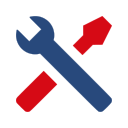
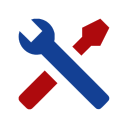
Version 1.0
Uploaded Version 1.0
- small tweaks

diff --git a/LUH-Tools/popup.css b/LUH-Tools/popup.css
@@ -1,8 +1,8 @@
 @import url('https://fonts.googleapis.com/css2?family=Montserrat:wght@300;400&display=swap');
 
 :root {
-  --primary: rgb(59, 110, 185);
-  --primary-60: rgb(59, 110, 185, 0.7);
+  --primary: rgb(19, 64, 148);
+  --primary-60: rgb(19, 64, 148, 0.6);
   --disabled: #cb0914;
   --green: rgb(43, 231, 43);
   --green-pulse-40: rgba(43, 231, 43, 0.4);
@@ -31,18 +31,29 @@ header {
   justify-items: center;
   align-items: center;
   font-weight: bold;
-  background-color: #28497c;
+  background-color: var(--primary);
   color: white;
   padding: 10px;
 }
 
 .fade {
-  animation: fade 3s ease infinite ;
+  animation: fade 3s linear infinite ;
+}
+
+@keyframes fade {
+  12.5% { background-color: #FF0000; }
+  25% { background-color: #FFA500; }
+  37.5% { background-color: #FFFF00; }
+  50% { background-color: #7FFF00; }
+  62.5% { background-color: #00FFFF; }
+  75% { background-color: #0000FF; }
+  87.5% { background-color: #9932CC; }
+  100% { background-color: #FF1493; }
 }
 
 .header {
   display: flex;
-  gap: 0.5rem;
+  gap: 1rem;
   width: 100%;
   flex-direction: row;
   align-items: center;
@@ -59,10 +70,10 @@ header {
   height: 20px;
   border-radius: 50%;
   background-color: #cb0914;
-  box-shadow: 0px 1px 8px rgba(255, 255, 255, 0.15);
 }
 
 .status-dot-active {
+  box-shadow: 0px 1px 8px rgba(255, 255, 255, 0.15);
   background-color: var(--green) !important;
   animation: pulse 2s infinite;
 }
@@ -84,12 +95,19 @@ header {
   max-height: 0;
   transition: max-height 0.4s ease-out;
   overflow: hidden;
-  background-color: var(--primary-60);
+  background-color: lightgray;
 }
 
 .popdown-body {
   color: black;
   padding: 10px;
+}
+
+.popdown-body .spacer {
+  margin-top: 5px;
+  margin-bottom: 5px;
+  margin-left: 0;
+  margin-right: 0;
 }
 
 .popdown-body a {
@@ -151,6 +169,10 @@ header {
   -webkit-user-drag: none;
 }
 
+.footer div {
+  opacity: 60%;
+}
+
 a:link, a:visited,  a:hover, a:active {
   color: black;
 }
@@ -196,17 +218,17 @@ a:link, a:visited,  a:hover, a:active {
   content: "";
   height: 20px;
   width: 20px;
-  left: -4px;
-  bottom: -3px;
+  left: -3px;
+  bottom: -3.5px;
   background-color: gray;
   transition: inherit;
 }
 
 input:checked + .slider {
-  background-color: var(--primary);
+  background-color: var(--primary-60);
 }
 input:focus + .slider {
-  box-shadow: 0 0 1px #2196F3;
+  box-shadow: 0 0 1px var(--primary-60);
 }
 
 
@@ -214,7 +236,7 @@ input:checked + .slider:before {
   -webkit-transform: translateX(20px);
   -ms-transform: translateX(20px);
   transform: translateX(20px);
-  background-color: #28497c;
+  background-color: var(--primary);
 }
 
 /* Rounded sliders */
@@ -250,16 +272,5 @@ input:checked + .slider:before {
       -moz-box-shadow: 0 0 0 0 var(--green-pulse-0);
       box-shadow: 0 0 0 0 var(--green-pulse-0);
   }
-}
-
-@keyframes fade {
-  12.5% { background-color: #FF0000; }
-  25% { background-color: #FFA500; }
-  37.5% { background-color: #FFFF00; }
-  50% { background-color: #7FFF00; }
-  62.5% { background-color: #00FFFF; }
-  75% { background-color: #0000FF; }
-  87.5% { background-color: #9932CC; }
-  100% { background-color: #FF1493; }
 }
 

diff --git a/LUH-Tools/popup.html b/LUH-Tools/popup.html
@@ -12,24 +12,26 @@
       <span class="material-symbols-outlined info-symbol" id="icon_info">
         info
       </span>
-      <img src="images/LUH_tools_icon_16.png" alt="">
+      <img src = "images/LUH_tools.svg" alt="LUH-Tools"/>
       <h1>LUH-Tools</h1>
       <div id="global-status-dot"></div>
     </div>
-    <div id="global-status-text">doesn't work on this site</div>
+    <div id="global-status-text">does not work on this site</div>
   </header>
+  
   <div class="popdown">
     <div class="popdown-body">
-      <strong>The QIS-Calculator switch</strong>  automatically calculates and displays your lp and grade on the <a class="text-white" href="https://qis.verwaltung.uni-hannover.de/" target="_blank">QIS-site</a>
-      <br><br>
-      <strong>The Stud.IP download switch</strong> switch automatically adds the download button to the right side of <a class="text-white" href="https://studip.uni-hannover.de/" target="_blank">LUH Stud.IP videos</a>
+      <strong>The QIS-Calculator switch</strong> automatically calculates and displays your cp and grade on the <a class="text-white" href="https://qis.verwaltung.uni-hannover.de/" target="_blank">QIS-site</a>
+      <br>
+      <div class="spacer"></div>
+      <strong>The Stud.IP download switch</strong> automatically adds the download button to the left side of <a class="text-white" href="https://studip.uni-hannover.de/" target="_blank">LUH Stud.IP videos</a>
     </div>
   </div>
   
   <main>
+
     <div class="action-wrapper">
       <span><strong>QIS Grade Calculator</strong></span>
-
       <div class="action-input">
         <label class="switch">
           <input type="checkbox" id="qis-auto">
@@ -54,7 +56,7 @@
     
     <div class="footer">
       <div>
-        <a href="https://bit.ly/3OKWrus" target="_blank">Claas</a> klar programmiert
+        Claas klar programmiert
       </div>
       <span>
         Version 10.10.2022

diff --git a/LUH-Tools/qis-script.js b/LUH-Tools/qis-script.js
@@ -6,38 +6,13 @@ window.onload = function() {
         }
     });
     chrome.runtime.onMessage.addListener(message_handler);
-    /* chrome.runtime.onMessage.addListener(
-        function (request, sender, sendResponse) {
-            if (request.function === "mainQISCalculator") {
-                mainQISCalculator();
-            }
-            else if (request.function === "script_already_executed") {
-                sendResponse({'return': script_already_executed()});
-            }  
-        }
-    ); */
 }
 
 function message_handler(request, sender, sendResponse){
-    switch(request.function) {
-        case "mainQISCalculator":
-            mainQISCalculator();
-            break;
-        case "script_already_executed":
-            sendResponse({'return': script_already_executed()});
-            break;
-        case "alive":
-            sendResponse({'return': true});
-            break;
+    if(request.function === "mainQISCalculator") {
+        mainQISCalculator();
     }
 }
-
-chrome.runtime.onMessage.addListener(function (msg, sender, sendResponse) {
-    if (msg.text === 'are_you_there_content_script?') {
-      sendResponse({status: "yes"});
-    }
-});
-
 
 function script_already_executed() {
     //grade already inserted

diff --git a/LUH-Tools/studip-script.js b/LUH-Tools/studip-script.js
@@ -6,29 +6,11 @@ window.onload = function() {
         }
     });
     chrome.runtime.onMessage.addListener(message_handler);
-    /* chrome.runtime.onMessage.addListener(
-        function (request, sender, sendResponse) {
-            if (request.function === "insertDownloadButton") {
-                insertDownloadButton();
-            }
-            else if (request.function === "download_btn_present") {
-                sendResponse({'return': download_btn_present()});
-            }  
-        }
-    ); */
 }
 
 function message_handler(request, sender, sendResponse){
-    switch(request.function) {
-        case "insertDownloadButton":
-            insertDownloadButton();
-            break;
-        case "script_already_executed":
-            sendResponse({'return': script_already_executed()});
-            break;
-        case "alive":
-            sendResponse({'return': true});
-            break;
+    if(request.function === "insertDownloadButton") {
+        insertDownloadButton();
     }
 }
 
@@ -77,5 +59,4 @@ function insertDownloadButton() {
         let list_element = createDownloadLinkElement(`Download: ${parseInt(quality, 10)}p`, new_url)
         sidebar_actions_list.appendChild(list_element)
     }
-
 }

diff --git a/LUH-Tools/popup.js b/LUH-Tools/popup.js
@@ -13,19 +13,22 @@ const regex_studip = /^https?:\/\/studip\.uni-hannover\.de\/plugins\.php\/flowca
 //this is set on load to the last focused window
 var tab = null;
 
+
+
+
 window.addEventListener("load", async function init() {
   
   //load checkbox status
   chrome.storage.sync.get(['qis_auto', 'studip_auto'], function (items) {
-    if (items != null) {
-      checkbox_qis_auto.checked = items['qis_auto'];
-      checkbox_studip_auto.checked = items['studip_auto'];
-    } else {
+    if(Object.keys(items).length === 0) {
       checkbox_qis_auto.checked = true;
       checkbox_studip_auto.checked = true;
       chrome.storage.sync.set({ 'studip_auto': true, 'qis_auto': true }, function () {
         console.log('Initialized settings');
       });
+    } else {
+      checkbox_qis_auto.checked = items['qis_auto'];
+      checkbox_studip_auto.checked = items['studip_auto'];
     }
 
     let slider_qis = document.querySelector("#slider-qis");
